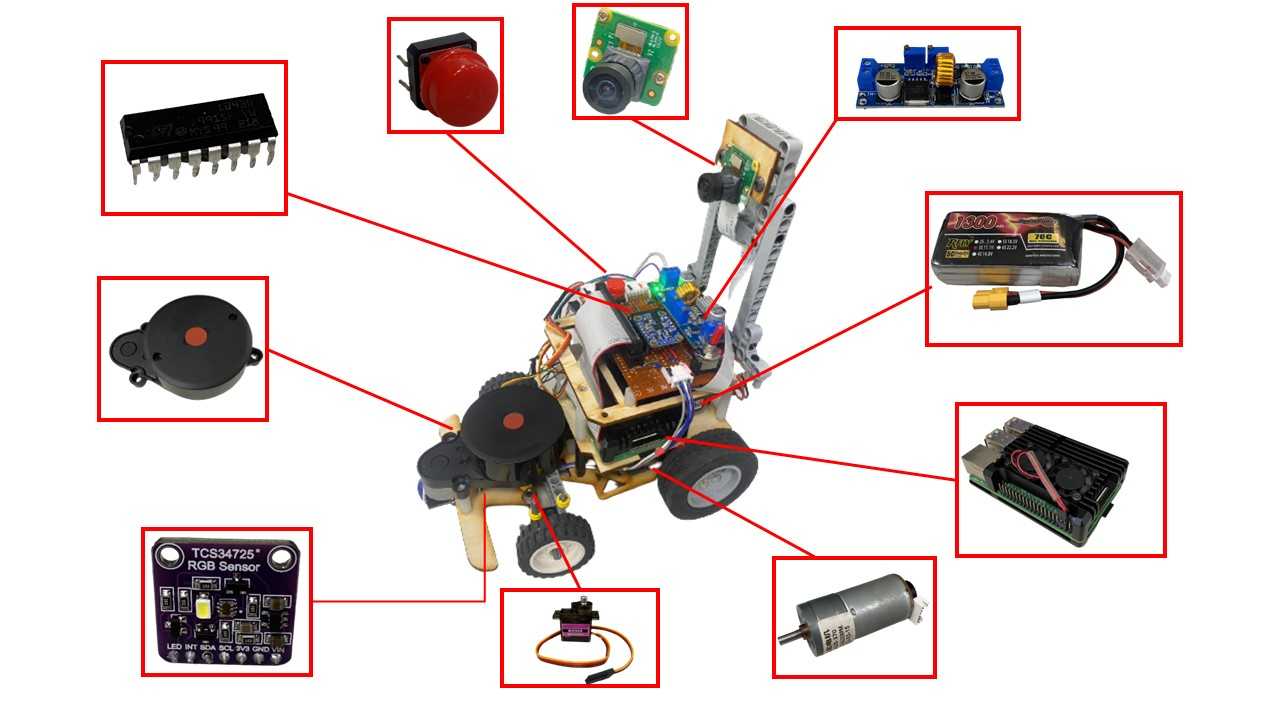
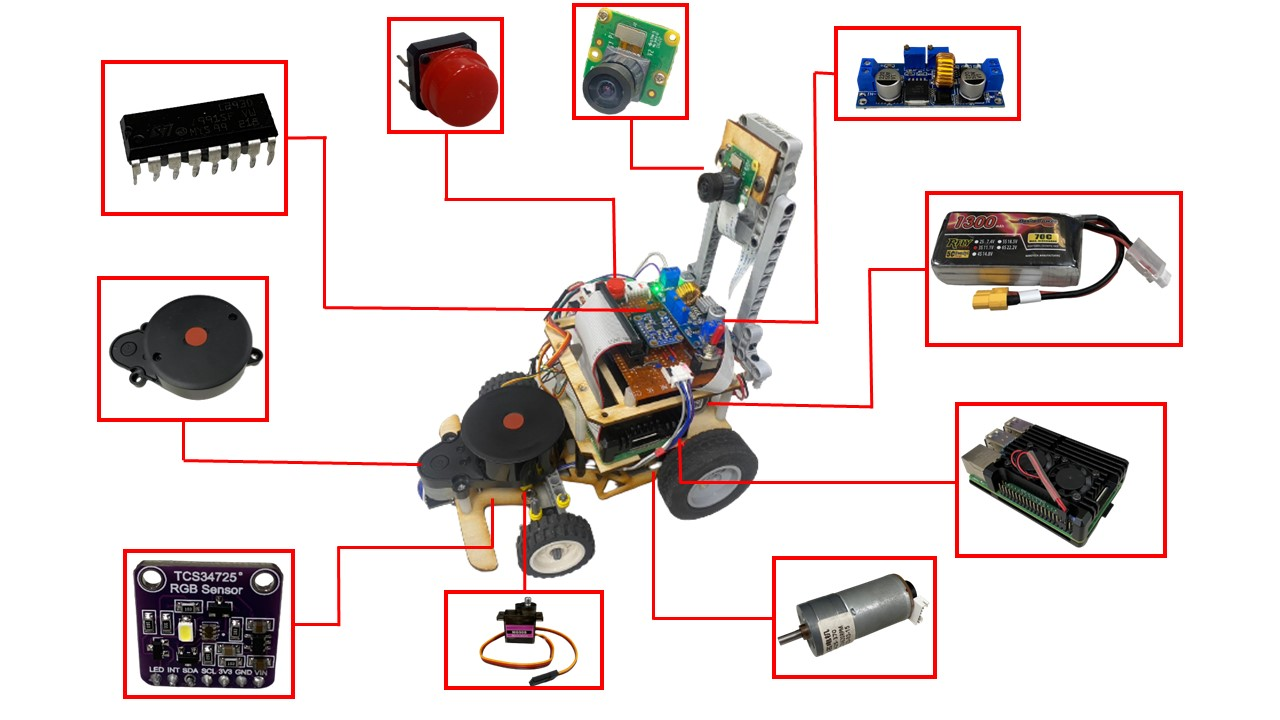
update

diff --git a/schemes/README.md b/schemes/README.md
@@ -3,6 +3,7 @@
 ## Components's Position  
 
 ![image](./Parts_List/img/Component_position.jpg)  
+![image](./Parts_List/img/Component_position_image.jpg)  
 ## Pin Configuration  
 
 ### Raspberry Pi 4 B 8G  
@@ -83,7 +84,7 @@ Interface: I2C interface
 
 Usage:  
 Line recognition and counting the current number of revolutions.  
-<img src="./Parts_List/img/TCS34725.png" width = "200" height = "" alt="顏色感測器" align=center />   
+<img src="./Parts_List/img/TCS34725.png" width = "150" height = "" alt="顏色感測器" align=center />   
 
 ### Raspberry Pi Camera V2  
 Specifications:  
